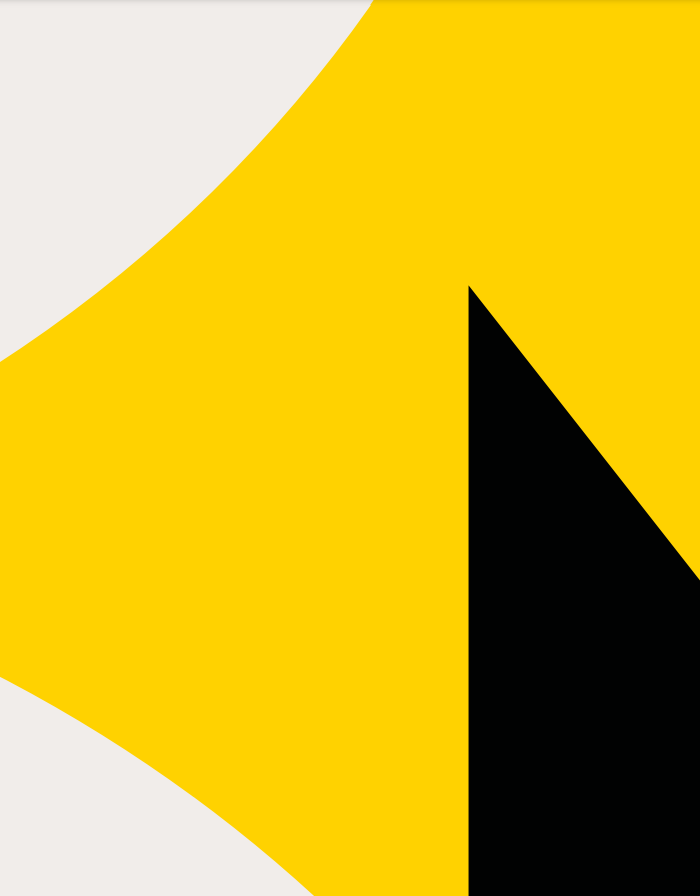
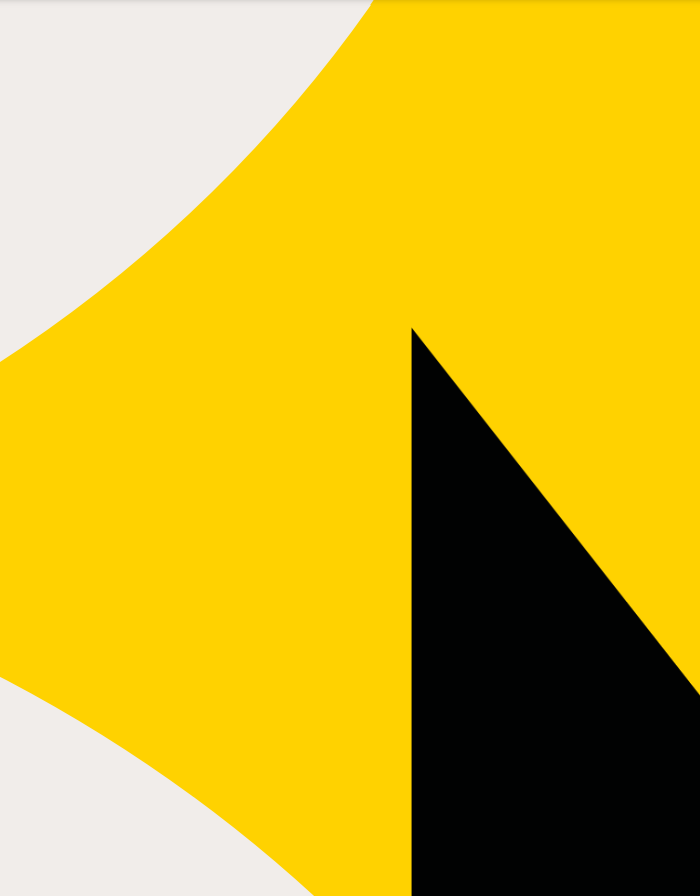
.

Changed region(s): [[0.57, 0.3125, 1.0, 1.0]]

diff --git a/styles/style.css b/styles/style.css
@@ -28,7 +28,8 @@ h1 {
 /* === Body Background === */
 body {
     background-image: url(../images/bnr-slice1-small.png);
-    background-size: 100%;
+    background-size: 1200px;
+    background-position: right 0;
     background-repeat: no-repeat;
 }
 
@@ -114,6 +115,7 @@ header {
     /* === Body Background === */
     body {
         background-image: url(../images/bnr-slice1.png);
+        background-size: 2000px;
     }
 
     /* === Navigation Links === */
